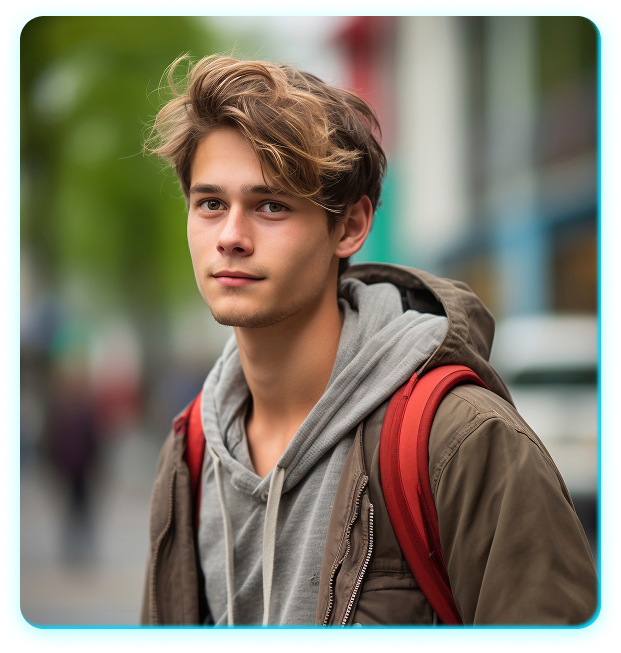
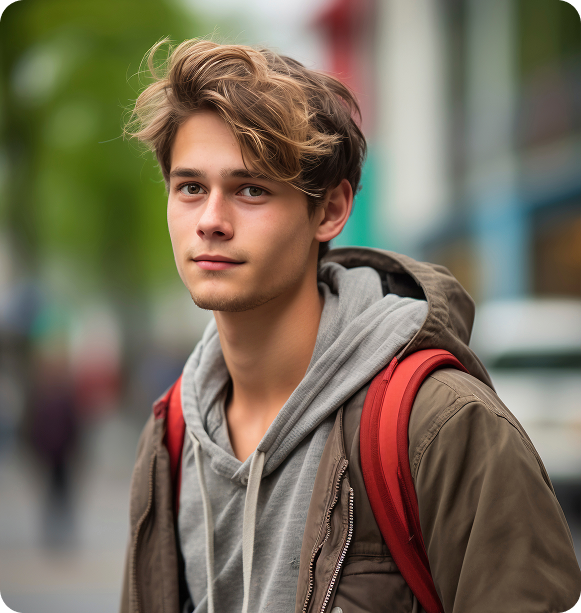
add new shadow for image + fixes img

diff --git a/src/shared/ui/cards/our-course/index.tsx b/src/shared/ui/cards/our-course/index.tsx
@@ -35,11 +35,11 @@ export const OurCourseLayout = ({
 }: OurCourseProps) => {
   const router = useRouter()
   return (
-    <div className="w-full 1510:flex-row flex flex-col-reverse items-center">
-      <div className="530:w-full h-full w-[320px] flex justify-center flex-col bg-blur-bg p-5 border border-white rounded-[20px]">
+    <div className="w-full h-full 975:flex-row flex flex-col-reverse">
+      <div className="w-full h-full flex justify-center flex-col bg-blur-bg p-5 border border-white rounded-[20px]">
         <div className="flex flex-col pb-4">
           <p>Курс №{countCourse}</p>
-          <p className="530:text-[50px] 530:leading-normal leading-10 text-[32px] pb-5">
+          <p className="530:text-[50px] 530:leading-normal leading-10 text-[32px] pb-3 ">
             {title}
           </p>
           <p>{description}</p>
@@ -71,8 +71,8 @@ export const OurCourseLayout = ({
           </div>
         </div>
       </div>
-      <div className="">
-        <img className="h-full 530:w-auto w-[320px] -ml-[13.8px]" src={img} />
+      <div className="shadow-img-shadow rounded-[12px]">
+        <img className="h-full w-full object-cover rounded-[12px]" src={img} />
       </div>
     </div>
   )

diff --git a/src/widgets/dropdowns/filter/direction/index.tsx b/src/widgets/dropdowns/filter/direction/index.tsx
@@ -49,9 +49,9 @@ export const DirectionFilter = () => {
         </label>
         <label className="flex items-center gap-2 cursor-pointer">
           <Checkbox
-            id="any3"
-            checked={checkedItems["any3"] || false}
-            onChange={handleChange("any3")}
+            id="any4"
+            checked={checkedItems["any4"] || false}
+            onChange={handleChange("any4")}
           />
           <p>Направление</p>
         </label>

diff --git a/src/app/index.css b/src/app/index.css
@@ -64,6 +64,10 @@
     4px 5px 20px #38fcfe66, -2px 1px 7px #38fcfe66,
     inset 0 -2px 4px rgba(0, 0, 0, 0.6),
     inset 0 2px 4px rgba(255, 255, 255, 0.4);
+  --shadow-img-shadow:
+          5px 5px 10px #0BD3FB, -2px 1px 7px #38fcfe66,
+          inset 0 -2px 4px rgba(0, 0, 0, 0.6),
+          inset 0 2px 4px rgba(255, 255, 255, 0.4);
 }
 
 @layer utilities {
